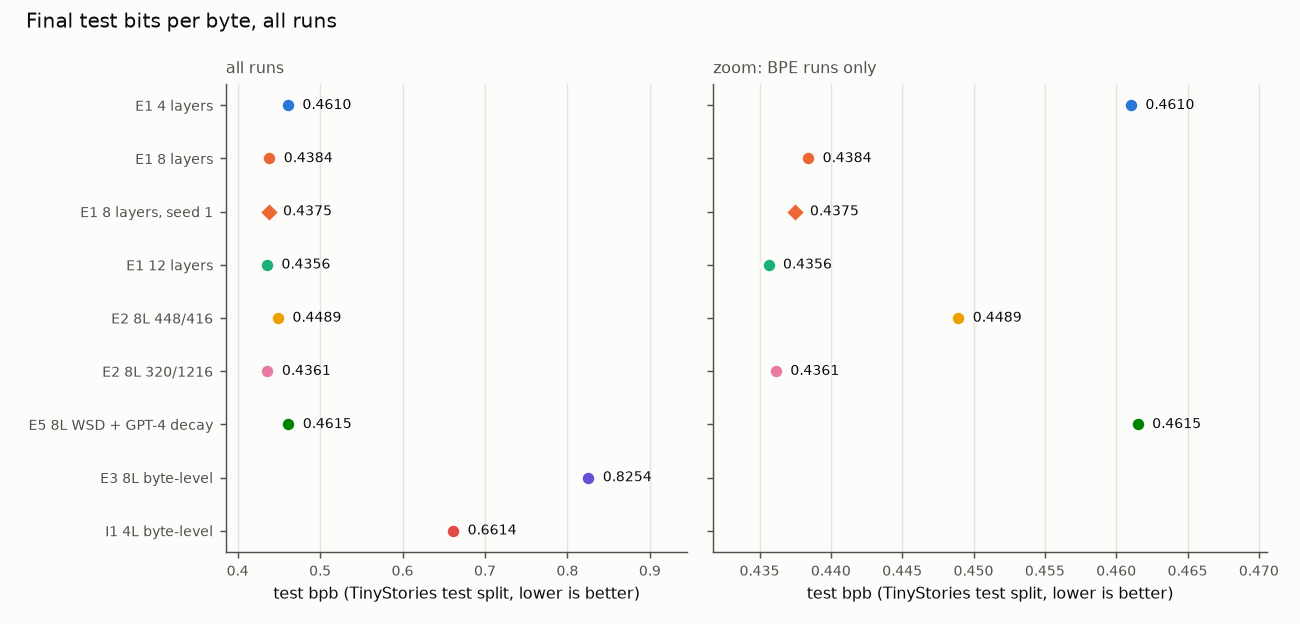
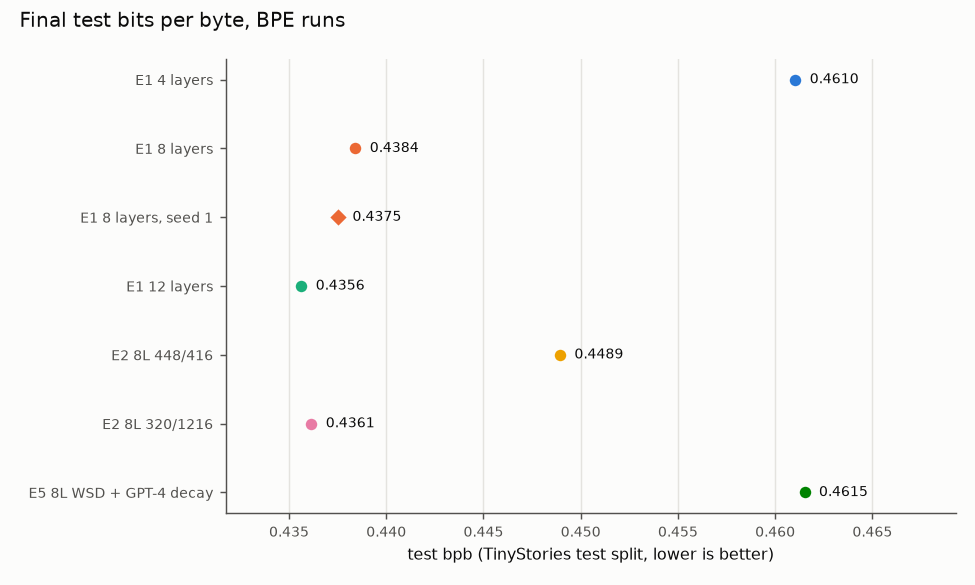
Exclude byte-level runs from the all-run validation and test plots

diff --git a/scripts/plot_all.py b/scripts/plot_all.py
@@ -1,7 +1,6 @@
-"""Figures across all reported runs:
-  runs/all_val_overlay.png  validation bpb (1 MB slice) over training time, every run
-                            (BPE and byte-level runs in separate panels: very different ranges)
-  runs/all_test_bpb.png     final TinyStories test bpb per run (all runs, plus a BPE zoom)
+"""Figures across all reported BPE runs (the byte-level runs are excluded):
+  runs/all_val_overlay.png  validation bpb (1 MB slice) over training time
+  runs/all_test_bpb.png     final TinyStories test bpb per run
 
 Usage: .venv\\Scripts\\python.exe scripts\\plot_all.py
 """
@@ -14,7 +13,7 @@ matplotlib.use("Agg")
 import matplotlib.pyplot as plt
 
 sys.path.insert(0, str(Path(__file__).resolve().parents[1]))
-from src.plots import GRID, INK, INK_2, SERIES, SURFACE, _curves, _style, _zoom, label_ends  # noqa: E402
+from src.plots import GRID, INK, SERIES, SURFACE, _curves, _style, _zoom  # noqa: E402
 
 # (label, run folder, colour slot, line style). The seed repeat shares the 8-layer colour.
 RUNS = [
@@ -25,8 +24,6 @@ RUNS = [
     ("E2 8L 448/416", "runs/E2/L8_w448_f416", 3, "-"),
     ("E2 8L 320/1216", "runs/E2/L8_w320_f1216", 4, "-"),
     ("E5 8L WSD + GPT-4 decay", "runs/E5/wsd_gpt4", 5, "-"),
-    ("E3 8L byte-level", "runs/E3/L8_char", 6, "-"),
-    ("I1 4L byte-level", "runs/I1/L4_char", 7, "-"),
 ]
 
 
@@ -36,30 +33,22 @@ def load():
 
 
 def plot_val(runs, path: Path):
-    groups = [("BPE (4,096 vocab)", [r for r in runs if r[1]["config"]["tokenizer"] != "char"]),
-              ("Byte-level", [r for r in runs if r[1]["config"]["tokenizer"] == "char"])]
-    fig, axes = plt.subplots(2, 1, figsize=(8, 7.5), sharex=True, gridspec_kw={"height_ratios": [3, 2]})
+    fig, ax = plt.subplots(figsize=(8, 5))
     fig.patch.set_facecolor(SURFACE)
-    for ax, (name, group) in zip(axes, groups):
-        all_t, all_v, ends = [], [], []
-        for label, log, color, ls in group:
-            _, _, _, vt, vbpb = _curves(log)
-            all_t += vt
-            all_v += vbpb
-            ax.plot(vt, vbpb, color=color, ls=ls, lw=2, marker="o", ms=5,
-                    markeredgecolor=SURFACE, markeredgewidth=1, label=label)
-            ends.append((vt[-1], vbpb[-1], f"{label} {vbpb[-1]:.3f}"))
-        t_end = max(all_t)
-        _zoom(ax, all_t, all_v, t_end)
-        _style(ax)
-        ax.set_ylabel(f"val bpb, {name}\n(1 MB slice)", fontsize=9)
-        ax.set_xlim(0, t_end * 1.2)
-        if len(group) <= 4:
-            label_ends(ax, ends, t_end)
-        else:
-            ax.legend(fontsize=8, frameon=False, loc="upper right", ncol=2)
-    axes[-1].set_xlabel("training time (minutes)  -  axes zoomed to the last 90% of training")
-    fig.suptitle("Validation bpb over training, all runs (30-minute budget)", fontsize=11, color=INK,
+    all_t, all_v = [], []
+    for label, log, color, ls in runs:
+        _, _, _, vt, vbpb = _curves(log)
+        all_t += vt
+        all_v += vbpb
+        ax.plot(vt, vbpb, color=color, ls=ls, lw=2, marker="o", ms=5,
+                markeredgecolor=SURFACE, markeredgewidth=1, label=f"{label} ({vbpb[-1]:.3f})")
+    _zoom(ax, all_t, all_v, max(all_t))
+    _style(ax)
+    ax.set_xlim(left=0)
+    ax.set_ylabel("val bpb (1 MB slice)", fontsize=9)
+    ax.set_xlabel("training time (minutes)  -  axis zoomed to the last 90% of training")
+    ax.legend(fontsize=8, frameon=False, loc="upper right", ncol=2)
+    fig.suptitle("Validation bpb over training, BPE runs (30-minute budget)", fontsize=11, color=INK,
                  x=0.02, ha="left")
     fig.tight_layout()
     fig.savefig(path, dpi=130, facecolor=SURFACE)
@@ -67,33 +56,23 @@ def plot_val(runs, path: Path):
 
 
 def plot_test(runs, path: Path):
-    fig, axes = plt.subplots(1, 2, figsize=(10, 4.8), sharey=True, gridspec_kw={"width_ratios": [1, 1.2]})
+    fig, ax = plt.subplots(figsize=(7.5, 4.5))
     fig.patch.set_facecolor(SURFACE)
     ys = list(range(len(runs)))[::-1]
-    bpe = [r[1]["final_test_bpb"] for r in runs if r[1]["config"]["tokenizer"] != "char"]
-    for ax, zoom in zip(axes, (False, True)):
-        for y, (label, log, color, ls) in zip(ys, runs):
-            v = log["final_test_bpb"]
-            if zoom and log["config"]["tokenizer"] == "char":
-                continue
-            ax.scatter(v, y, s=70, color=color, edgecolor=SURFACE, linewidth=2, zorder=2,
-                       marker="D" if ls == "--" else "o")
-            ax.annotate(f"{v:.4f}", (v, y), xytext=(8, 0), textcoords="offset points",
-                        va="center", fontsize=8, color=INK)
-        _style(ax)
-        ax.grid(True, axis="x", color=GRID)
-        ax.grid(False, axis="y")
-        if zoom:
-            lo, hi = min(bpe), max(bpe)
-            ax.set_xlim(lo - 0.15 * (hi - lo), hi + 0.35 * (hi - lo))
-            ax.set_title("zoom: BPE runs only", fontsize=9, color=INK_2, loc="left")
-        else:
-            vals = [r[1]["final_test_bpb"] for r in runs]
-            ax.set_xlim(min(vals) - 0.05, max(vals) + 0.12)
-            ax.set_title("all runs", fontsize=9, color=INK_2, loc="left")
-        ax.set_xlabel("test bpb (TinyStories test split, lower is better)", fontsize=9)
-    axes[0].set_yticks(ys, [r[0] for r in runs], fontsize=8)
-    fig.suptitle("Final test bits per byte, all runs", fontsize=11, color=INK, x=0.02, ha="left")
+    vals = [log["final_test_bpb"] for _, log, _, _ in runs]
+    for y, v, (label, log, color, ls) in zip(ys, vals, runs):
+        ax.scatter(v, y, s=70, color=color, edgecolor=SURFACE, linewidth=2, zorder=2,
+                   marker="D" if ls == "--" else "o")
+        ax.annotate(f"{v:.4f}", (v, y), xytext=(8, 0), textcoords="offset points",
+                    va="center", fontsize=8, color=INK)
+    lo, hi = min(vals), max(vals)
+    ax.set_xlim(lo - 0.15 * (hi - lo), hi + 0.3 * (hi - lo))
+    ax.set_yticks(ys, [r[0] for r in runs], fontsize=8)
+    _style(ax)
+    ax.grid(True, axis="x", color=GRID)
+    ax.grid(False, axis="y")
+    ax.set_xlabel("test bpb (TinyStories test split, lower is better)", fontsize=9)
+    fig.suptitle("Final test bits per byte, BPE runs", fontsize=11, color=INK, x=0.02, ha="left")
     fig.tight_layout()
     fig.savefig(path, dpi=130, facecolor=SURFACE)
     plt.close(fig)
